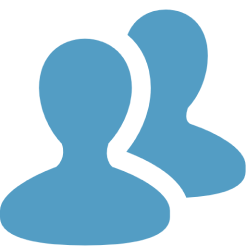
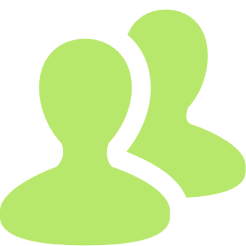
Готов к продакшн

diff --git a/wp-content/themes/osago/css/main2.css b/wp-content/themes/osago/css/main2.css
@@ -3,6 +3,7 @@
     font-family: "Roboto-Regular", Arial, Helvetica, sans-serif;
     font-size: 24px;
 }
+
 body {
     background-color: #f2f2f2;
 }
@@ -25,44 +26,28 @@ h1 {
 }
 
 .text-main {
-    color: #539DC4;
+    font-size: 24px;
+    color: black;
 }
 
-.btn-main {
-    background-color: #539DC4;
-    color: white;
-}
 
-.btn-main:hover {
-    color: rgb(224, 224, 224);
-}
-
-.btn-main:focus,
-.btn-main:active,
-.btn-main.focus {
-    outline: 0;
-    box-shadow: 0 0 0 0.2rem rgb(158, 214, 245);
-}
 
 .phone {
     font-size: 0.8em;
 }
 
-.btn-outline-light {
-    border: 3px solid transparent;
-    border-color: #f8f9fa;
-}
 
 header {
-    background-color: #fff;
+    background-color: #b7e76b;
 }
 
 .header {
-    background-color: #539DC4;
+    background-color: #b7e76b;
     height: 100%;
 }
 
 .bg-img {
+    background-color: #b7e76b;
     background: url("/images/section1.png") no-repeat;
     background-size: 100%;
     height: 60vh;
@@ -74,14 +59,19 @@ header {
         background: unset !important;
     }
 }
-
+.donations {
+    font-size: 20px;
+}
+.img-thumbnail {
+    border: unset !important;
+}
 .title {
-    color: white;
+    color: black;
     font-size: 48px;
 }
 
 .lead {
-    color: white;
+    color: black;
 }
 
 .about p {
@@ -93,9 +83,10 @@ header {
     max-width: 100%;
     height: auto;
 }
+
 /* TODO Изменить на зелёный */
 .bg-green {
-    background-color: #539DC4;
+    background-color: #b7e76b;
 }
 
 /* Часто задаваемые вопросы клиентов */
@@ -182,8 +173,8 @@ header {
 }
 
 .btn-contact {
-    color: white;
-    background-color: #539DC4;
+    color: black;
+    background-color: #b7e76b;
 }
 
 .contact-text {
@@ -194,9 +185,11 @@ header {
     align-items: center;
     display: flex;
 }
+
 #wpcf7-f55-o2 {
     display: none;
 }
+
 .screen-reader-response {
     color: rgb(92, 25, 25);
 }
@@ -204,6 +197,7 @@ header {
 .screen-reader-response ul {
     display: none;
 }
+
 label {
     margin: 0;
 }

diff --git a/wp-content/themes/osago/page.php b/wp-content/themes/osago/page.php
@@ -4,7 +4,6 @@
     <div class="container">
         <div class="row mt-5 text-main">
             <div class="col-12 col-lg-7 about">
-                <h2>Что такое электронный полис ОСАГО</h2>
                 <p class="my-3 text-dark">При покупке у нас электронного полиса ОСАГО, 5% от его
                     стоимости мы направим на
                     благотворительность
@@ -63,6 +62,9 @@
 <div class="container-fluid header p-0 mt-3 bg-green">
     <div class="container">
         <div class="row p-3 justify-content-center">
+            <div class="col-12 p-0">
+                <h2 class="text-main">Наши партнёры</h2>
+            </div>
             <?php
             $args = array(
                 'post_type' => 'labels1',
@@ -79,13 +81,13 @@
                     if (!empty($image)) : ?>
 
 
-                    <div class="col-12 col-lg-4 py-3 py-lg-0">
+                    <div class="col-12 col-md-6 col-lg-3 py-3 py-lg-0">
                         <div class="row h-100">
                             <div class="col-12 d-flex justify-content-center align-items-center">
                                 <img class="img-thumbnail" src="<?php echo esc_url($image['url']); ?>" alt="<?php echo esc_attr($image['alt']); ?>">
                             </div>
-                            <div class="col-12 mt-1">
-                                <p class="d-flex m-auto btn btn-light donations">Собрано <?php the_field('donation') ?></p>
+                            <div class="col-12 mt-1 d-flex align-items-end justify-content-center">
+                                <p class="d-flex btn btn-light donations">Собрано <?php the_field('donation') ?></p>
                             </div>
                         </div>
                     </div>
@@ -116,12 +118,12 @@
         </div>
     </div>
 </div>
-<a name="contact"></a>
+<a name="request"></a>
 
 <div class="container-fluid contact-from header p-3 bg-green">
     <div class="container">
         <?php echo do_shortcode('[contact-form-7 id="56" title="Заявка"]') ?>
-        
+
     </div>
 </div>
 

diff --git a/wp-content/themes/osago/header.php b/wp-content/themes/osago/header.php
@@ -40,7 +40,7 @@
                         <div class="col col-lg-6">
                             <h1 class="title"><?php bloginfo('name') ?></h1>
                             <p class="lead my-3"><?php bloginfo('description') ?></p>
-                            <a class="btn btn-outline-light" href="#about">Узнать подробнее</a>
+                            <a class="btn btn-outline-dark" href="#request">Оставить заявку</a>
                         </div>
                     </div>
                 </div>
